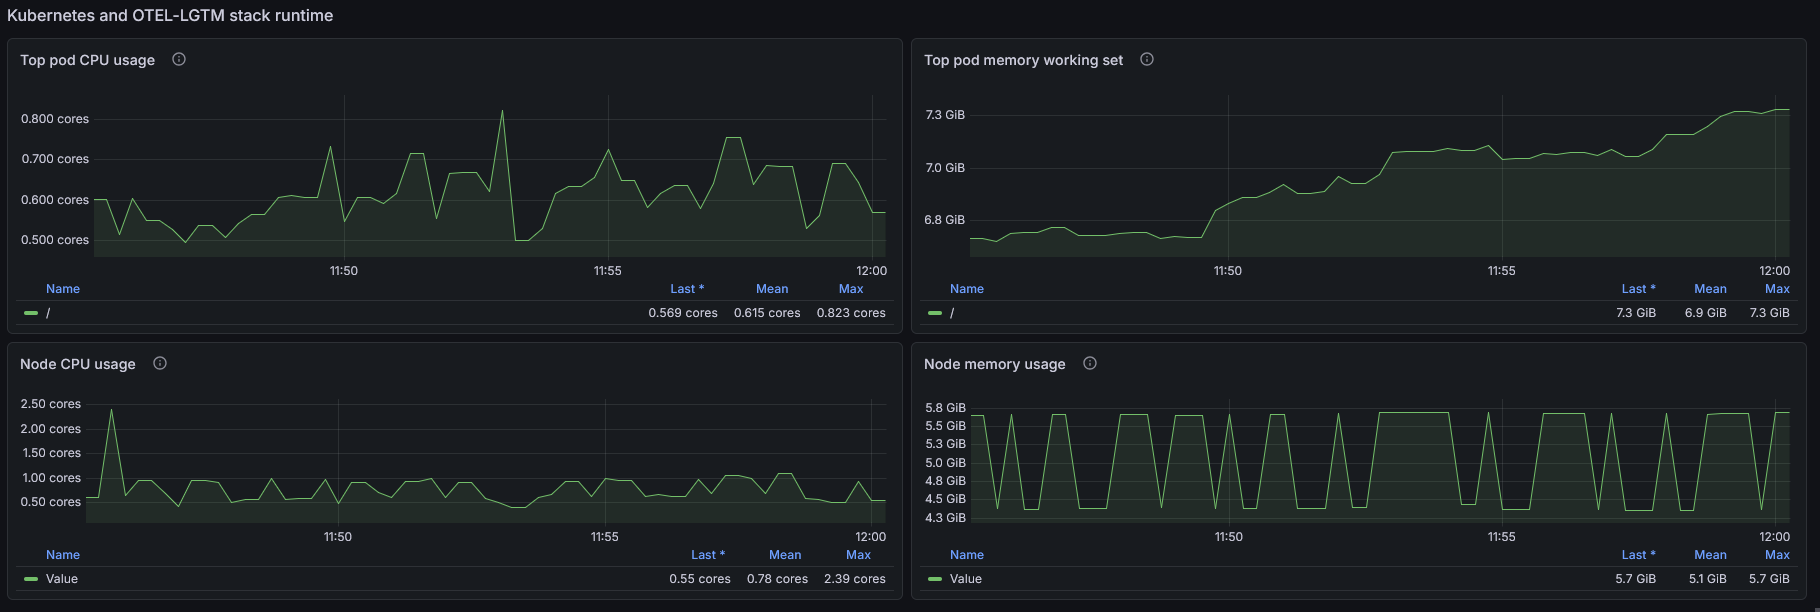
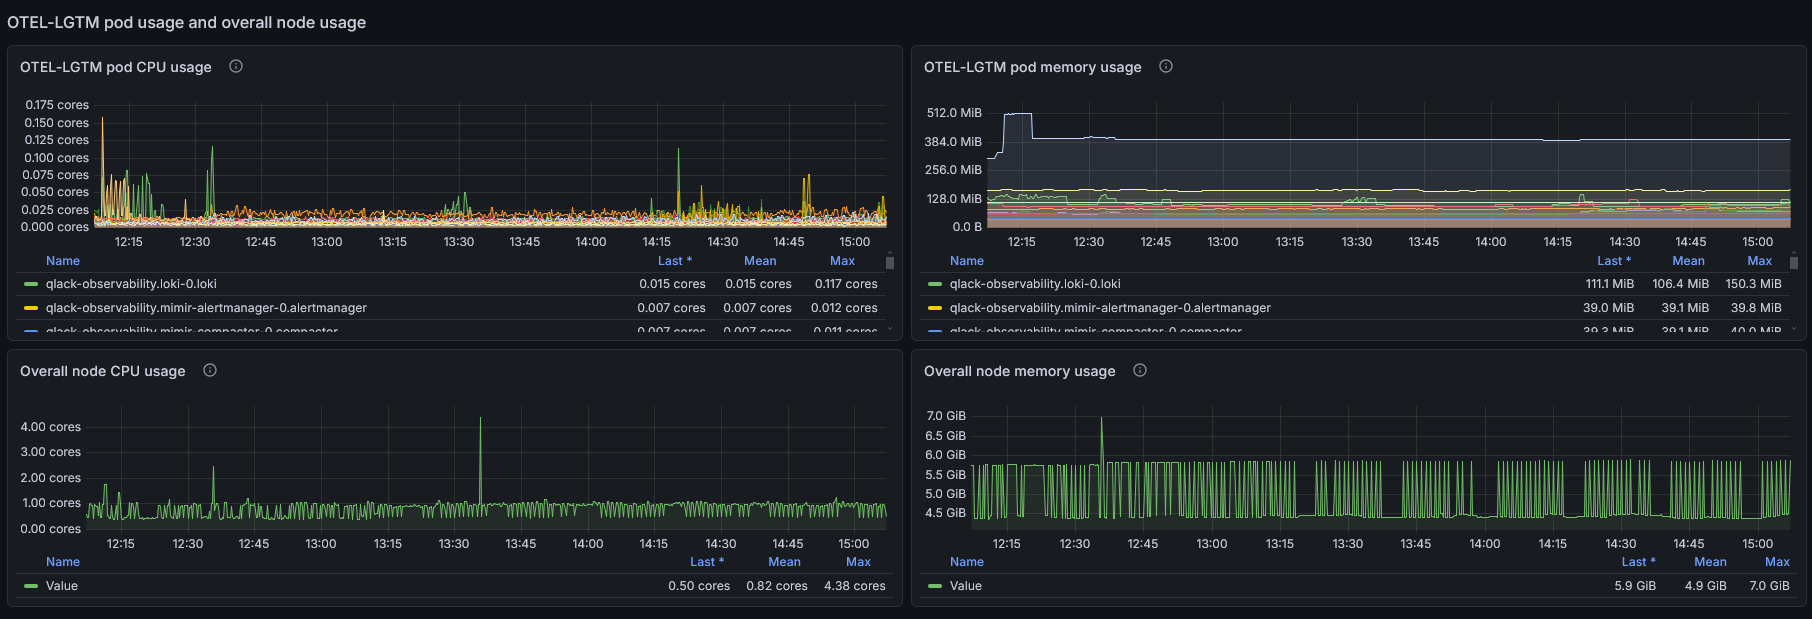
chore: minor changes to lgtm tab

diff --git a/_layouts/lgtm.html b/_layouts/lgtm.html
@@ -265,7 +265,7 @@ layout: wrapper
         }
 
         .lgtm-panel p {
-          max-width: 820px;
+          max-width: 1100px;
           color: #555;
           line-height: 1.65;
         }
@@ -409,8 +409,8 @@ layout: wrapper
             </section>
 
             <section class="lgtm-panel" id="lgtm-p5">
-              <h4>Kubernetes and OTEL-LGTM runtime</h4>
-              <p>Monitor the LGTM and Kubernetes runtime itself with pod CPU usage, pod memory working set, node CPU usage, and node memory usage panels.</p>
+              <h4>OTEL-LGTM pod usage and overall node usage</h4>
+              <p>The pod CPU and memory working set panels are filtered to OTEL-LGTM-related components (OpenTelemetry Collector, Grafana, Loki, Mimir, and Tempo) and grouped by the instance label. The node CPU and memory panels show overall per-node usage across all workloads, not OTEL-LGTM-specific.</p>
               <a class="lgtm-zoom" href="assets/img/lgtm/kubernetes-otel-lgtm-runtime.png" target="_blank" rel="noopener" aria-label="Enlarge the QLACK LGTM Kubernetes runtime screenshot">
                 <img class="lgtm-shot" src="assets/img/lgtm/kubernetes-otel-lgtm-runtime.png" alt="QLACK LGTM Kubernetes and OTEL-LGTM runtime dashboard showing pod and node CPU and memory usage" loading="lazy" />
               </a>
